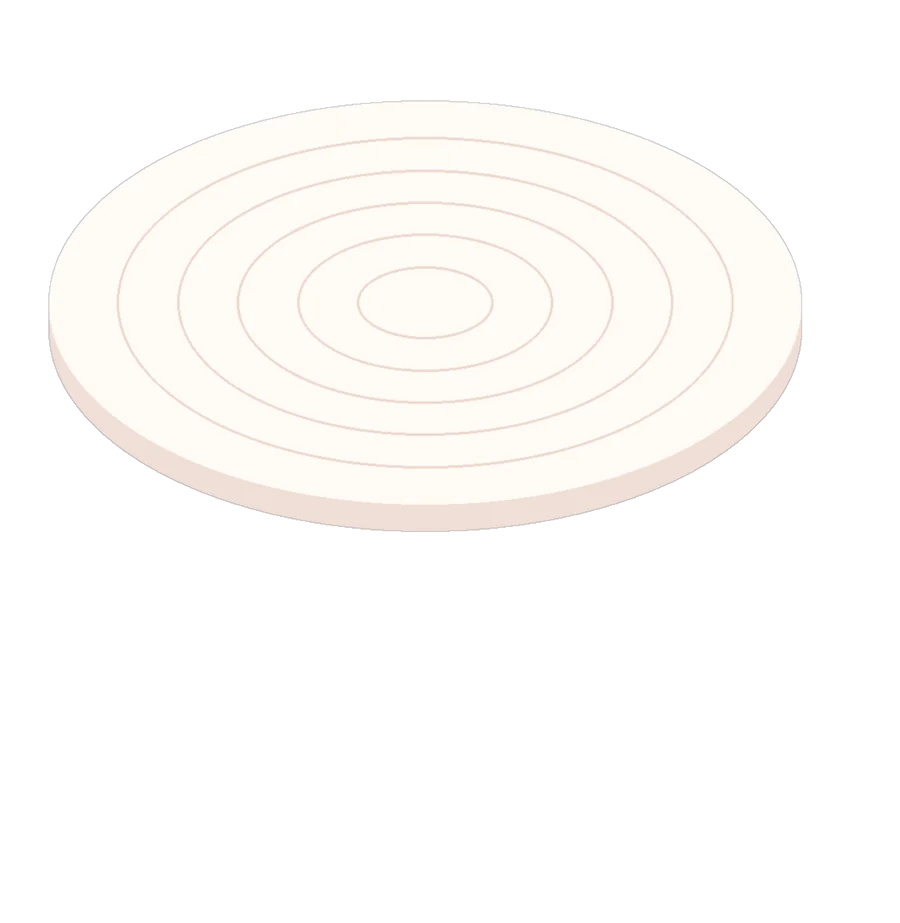
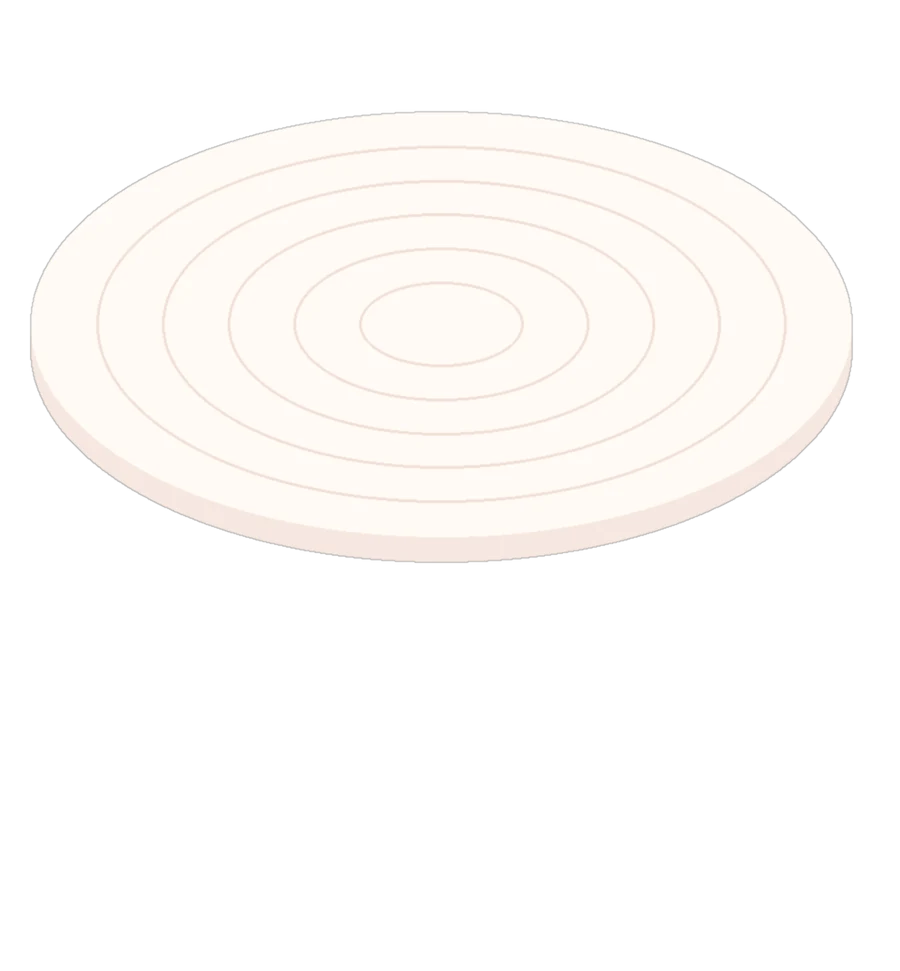
yali-cakes: cleaner cut-out of the Mia cake in the layers section
Recut from the original photo with a finer background-removal model,
the cake board and every stray background speck removed, no part of the
cake clipped. The cake now separates into the inscription disc, the
piped top and the body, with the inside layers (vanilla cream, Nutella
with Kinder, vanilla sponge) drawn as illustrations that appear only
when the cake opens. On phones the cake stays inside the screen.
Not published to the live site.

Claude-Session: https://claude.ai/code/session_01DxzeFidiFyHuUFVYTKQGHt

diff --git a/yali-cakes/index.html b/yali-cakes/index.html
@@ -983,8 +983,8 @@ html{scroll-padding-top:72px}
 <p class="yl-sub">עוגת הוינטג׳ של מיה, מפורקת לשכבות.</p>
 </div>
 <div class="yl-stage" id="yl-stage">
-<div class="yl-cake" role="img" aria-label="עוגת וינטג׳ ורודה שנפרדת לשכבות: כיתוב וקישוט, ציפוי וזילופים, קרם וניל, בסיס וניל, ונוטלה עם שברי קינדר"><img class="yl-p" data-k="ruffle" src="./assets/layers/mia-ruffle.webp" alt="" width="900" height="923" decoding="async"><img class="yl-p" data-k="swag" src="./assets/layers/mia-swag.webp" alt="" width="900" height="923" decoding="async"><img class="yl-p" data-k="cream" src="./assets/layers/mia-cream.webp" alt="" width="900" height="923" decoding="async"><img class="yl-p" data-k="top" src="./assets/layers/mia-top.webp" alt="" width="900" height="923" decoding="async"><img class="yl-p" data-k="disc" src="./assets/layers/mia-disc.webp" alt="" width="900" height="923" decoding="async"></div>
-<ol class="yl-labels"><li data-k="disc"><span class="yl-num">1</span><span class="yl-t"><b>כיתוב וקישוט</b><span>שם ומספר בעבודת יד, במסגרת של פנינים</span></span></li><li data-k="top"><span class="yl-num">2</span><span class="yl-t"><b>ציפוי וזילופים</b><span>קרם ורוד וזילופי וינטג׳ מסביב</span></span></li><li data-k="cream"><span class="yl-num">3</span><span class="yl-t"><b>קרם וניל</b><span>קרם וניל חלבי ועשיר בין השכבות</span></span></li><li data-k="swag"><span class="yl-num">4</span><span class="yl-t"><b>בסיס וניל</b><span>שכבות של עוגת טורט וניל</span></span></li><li data-k="ruffle"><span class="yl-num">5</span><span class="yl-t"><b>נוטלה וקינדר</b><span>מילוי נוטלה עם שברי אצבעות קינדר</span></span></li></ol>
+<div class="yl-cake" role="img" aria-label="עוגת וינטג׳ ורודה שנפרדת לשכבות: כיתוב וקישוט, ציפוי וזילופים, קרם וניל, נוטלה וקינדר, ובסיס וניל"><img class="yl-p" data-k="body" src="./assets/layers/mia-body.webp" alt="" width="900" height="971" decoding="async"><img class="yl-p" data-k="sponge" src="./assets/layers/mia-sponge.webp" alt="" width="900" height="971" decoding="async"><img class="yl-p" data-k="filling" src="./assets/layers/mia-filling.webp" alt="" width="900" height="971" decoding="async"><img class="yl-p" data-k="cream" src="./assets/layers/mia-cream.webp" alt="" width="900" height="971" decoding="async"><img class="yl-p" data-k="top" src="./assets/layers/mia-top.webp" alt="" width="900" height="971" decoding="async"><img class="yl-p" data-k="disc" src="./assets/layers/mia-disc.webp" alt="" width="900" height="971" decoding="async"></div>
+<ol class="yl-labels"><li data-k="disc"><span class="yl-num">1</span><span class="yl-t"><b>כיתוב וקישוט</b><span>שם ומספר בעבודת יד, במסגרת של פנינים</span></span></li><li data-k="top"><span class="yl-num">2</span><span class="yl-t"><b>ציפוי וזילופים</b><span>קרם ורוד וזילופי וינטג׳ מסביב</span></span></li><li data-k="cream"><span class="yl-num">3</span><span class="yl-t"><b>קרם וניל</b><span>קרם וניל חלבי ועשיר בין השכבות</span></span></li><li data-k="filling"><span class="yl-num">4</span><span class="yl-t"><b>נוטלה וקינדר</b><span>מילוי נוטלה עם שברי אצבעות קינדר</span></span></li><li data-k="body"><span class="yl-num">5</span><span class="yl-t"><b>בסיס וניל</b><span>שכבות של עוגת טורט וניל</span></span></li></ol>
 </div>
 <p class="yl-note">החתכים בתוך העוגה הם המחשה.</p>
 </div>

diff --git a/yali-cakes/yali-plus.css b/yali-cakes/yali-plus.css
@@ -178,23 +178,24 @@ html body section#layers{background:
 .yl-sub{margin:0;color:var(--yp-muted)}
 .yl-stage{--e:0;flex:1;min-height:0;width:100%;display:flex;justify-content:center;align-items:center;gap:clamp(12px,4vw,64px)}
 /* the cake keeps the 536:910 proportions of its exploded layout so every layer is placed in percent */
-.yl-cake{position:relative;height:100%;max-height:760px;aspect-ratio:536/910;flex:none;translate:0 calc((1 - var(--e)) * -18%)}
-.yl-p{position:absolute;left:0;width:100%;height:auto;top:calc((360 + var(--o) * var(--e)) / 910 * 100%);will-change:top}
-.yl-p[data-k="disc"]{--o:-360}.yl-p[data-k="top"]{--o:-270}.yl-p[data-k="cream"]{--o:-190;opacity:min(1,calc(var(--e) * 6))}.yl-p[data-k="swag"]{--o:-100}.yl-p[data-k="ruffle"]{--o:0}
+.yl-cake{position:relative;height:100%;max-height:760px;aspect-ratio:500/870;flex:none;translate:0 calc((1 - var(--e)) * -18%)}
+.yl-p{position:absolute;left:0;width:100%;height:auto;top:calc((330 + var(--o) * var(--e)) / 870 * 100%);will-change:top}
+.yl-p[data-k="disc"]{--o:-330}.yl-p[data-k="top"]{--o:-250}.yl-p[data-k="cream"]{--o:-170}.yl-p[data-k="filling"]{--o:-85}.yl-p[data-k="body"],.yl-p[data-k="sponge"]{--o:0}
+.yl-p[data-k="cream"],.yl-p[data-k="filling"],.yl-p[data-k="sponge"]{opacity:min(1,calc(var(--e) * 6))}
 /* labels sit level with their layer once it has moved out */
-.yl-labels{list-style:none;margin:0;padding:0;position:relative;height:100%;max-height:760px;aspect-ratio:536/910;flex:none;width:clamp(150px,26vw,300px);aspect-ratio:auto}
+.yl-labels{list-style:none;margin:0;padding:0;position:relative;height:100%;max-height:760px;flex:none;width:clamp(150px,26vw,300px);aspect-ratio:auto}
 .yl-labels li{position:absolute;inset-inline:0;transform:translateY(-50%);display:flex;align-items:center;gap:12px;opacity:var(--l,0);translate:calc((1 - var(--l,0)) * 18px) 0}
 .yl-labels li::before{content:"";position:absolute;inset-inline-start:calc(-1 * clamp(12px,4vw,64px));width:clamp(12px,4vw,64px);top:50%;height:1.5px;background:linear-gradient(to right,rgba(105,75,58,0),rgba(105,75,58,.55))}
-.yl-labels li[data-k="disc"]{top:15.7%}.yl-labels li[data-k="top"]{top:29%}.yl-labels li[data-k="cream"]{top:40%}.yl-labels li[data-k="swag"]{top:56%}.yl-labels li[data-k="ruffle"]{top:77%}
+.yl-labels li[data-k="disc"]{top:17%}.yl-labels li[data-k="top"]{top:30%}.yl-labels li[data-k="cream"]{top:41.5%}.yl-labels li[data-k="filling"]{top:51.5%}.yl-labels li[data-k="body"]{top:63%}
 .yl-num{flex:none;width:28px;height:28px;border-radius:50%;background:var(--yp-cocoa);color:#fff;display:inline-flex;align-items:center;justify-content:center;font-size:13px;font-weight:700}
 .yl-t{display:flex;flex-direction:column;line-height:1.3}
 .yl-t b{font-size:clamp(15px,1.6vw,20px);font-weight:700}
 .yl-t span{font-size:clamp(12px,1.2vw,15px);color:var(--yp-muted)}
 .yl-note{margin:0;font-size:12px;color:var(--yp-muted);opacity:.8}
 @media (max-width:700px){
-  .yl-stage{--cw:min(54vw,calc((100svh - 250px) * 536 / 910));gap:10px;flex:none;height:calc(var(--cw) * 910 / 536);margin-block:auto}
+  .yl-stage{--cw:min(50vw,calc((100svh - 250px) * 500 / 870));gap:10px;flex:none;height:calc(var(--cw) * 870 / 500);margin-block:auto}
   .yl-cake{height:100%;width:var(--cw);max-height:none;translate:calc((1 - var(--e)) * -20vw) calc((1 - var(--e)) * -18%)}
-  .yl-labels{width:38vw;max-height:none}
+  .yl-labels{width:36vw;max-height:none}
   .yl-t b{font-size:13px}
   .yl-t span{display:none}
   .yl-num{width:22px;height:22px;font-size:11px}

diff --git a/yali-cakes/yali-plus.js b/yali-cakes/yali-plus.js
@@ -37,7 +37,7 @@
       if (reduce) return;
       var clamp = function (v) { return v < 0 ? 0 : v > 1 ? 1 : v; };
       var ease = function (t) { return t < .5 ? 4 * t * t * t : 1 - Math.pow(-2 * t + 2, 3) / 2; };
-      var keys = ['disc', 'top', 'cream', 'swag', 'ruffle'];
+      var keys = ['disc', 'top', 'cream', 'filling', 'body'];
       var ticking = false;
       var draw = function () {
         ticking = false;
